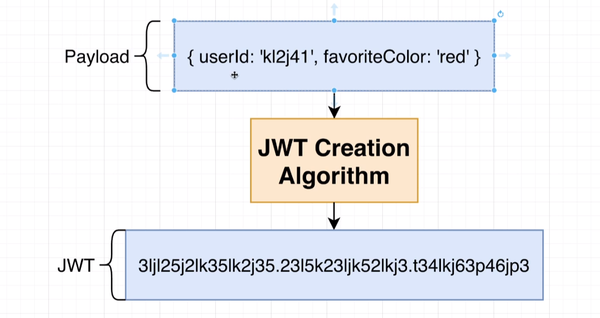
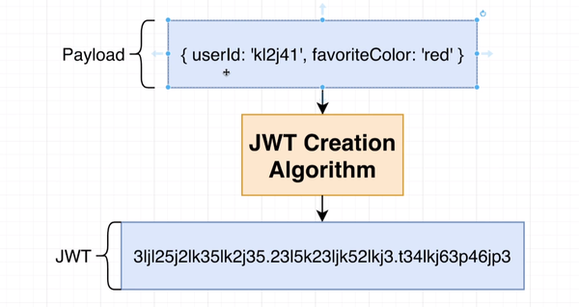
K8S Setup Secret Object to Pass The Scret to All Pods inside the Cluster

diff --git a/auth/src/routes/signup.ts b/auth/src/routes/signup.ts
@@ -3,6 +3,7 @@ import { body, validationResult } from 'express-validator';
 import { BadRequestError } from '../errors/bad-request-error';
 import { RequestValidationError } from '../errors/request-validator-error';
 import { User } from '../models/user';
+import jwt from 'jsonwebtoken';
 
 const router = express.Router();
 
@@ -30,6 +31,22 @@ router.post(
 
     const user = User.build({ email, password });
     await user.save();
+
+    console.log(process.env.JWT_KEY);
+    // Generate JWT
+    const userJwt = jwt.sign(
+      {
+        id: user.id,
+        email: user.email,
+      },
+      process.env.JWT_KEY!
+    );
+
+    // Store it on Session Object
+    req.session = {
+      jwt: userJwt,
+      ...req.session,
+    };
 
     res.status(201).send(user);
   }

diff --git a/auth/src/index.ts b/auth/src/index.ts
@@ -17,7 +17,7 @@ app.use(json());
 app.use(
   cookieSession({
     signed: false, // Disable Encryption For JWT Because the encryption algorithm is not one for all languages
-    secure: true,
+    secure: true, // Make Sure that SSL Certf Verification off at Post Man
   })
 );
 
@@ -33,6 +33,10 @@ app.all('*', async (req: Request, res: Response) => {
 app.use(errorHandler);
 
 const startServer = async () => {
+  if (!process.env.JWT_KEY) {
+    throw new Error('JWT_KEY Must Be Defined');
+  }
+
   try {
     await mongoose.connect('mongodb://auth-mongo-srv:27017/auth');
     console.log('DB Connected Successfully ');

diff --git a/README.MD b/README.MD
@@ -37,12 +37,10 @@ When user Send Request to Server The Server Sends a Response Back over to the Br
 In JWT We are going to take some arbitrary piece of information that we refer to as the **payload** so this can some kind of object have id or name or whatever and
 take this payload pass it to **JWT Creation Algorithm** and we get the token we want
 and later on we can use **Decoding Algorithm** And extract the original Object
-
-![JWT Mechanism](public/JWT.png)
+<br/>
 
 There is Different Ways to Store The JWT Token Either in the **\*Request Headers** as key Value of Sending it Through the **Request Body** Or Even Store it as **cookie**
-
-![JWT Storing Mechanism](public/JWTStoreWays.png)
+![JWT Mechanism](public/JWT.png) ![JWT Storing Mechanism](public/JWTStoreWays.png)
 
 ### JWT Vs Cookie
 
@@ -76,3 +74,8 @@ So After all these Requirements JWT Is the best Option Because
 
 - Docker & minikube, Kubectl
 - Ingress Addon Through [Kubernetes-Ingress](https://kubernetes.github.io/ingress-nginx/deploy)
+- Setup Secret By Run
+
+```
+kubectl create secret generic jwt-secret --from-literal=JWT_KEY=JWT_SECRET_DEVELOPMENT
+```
